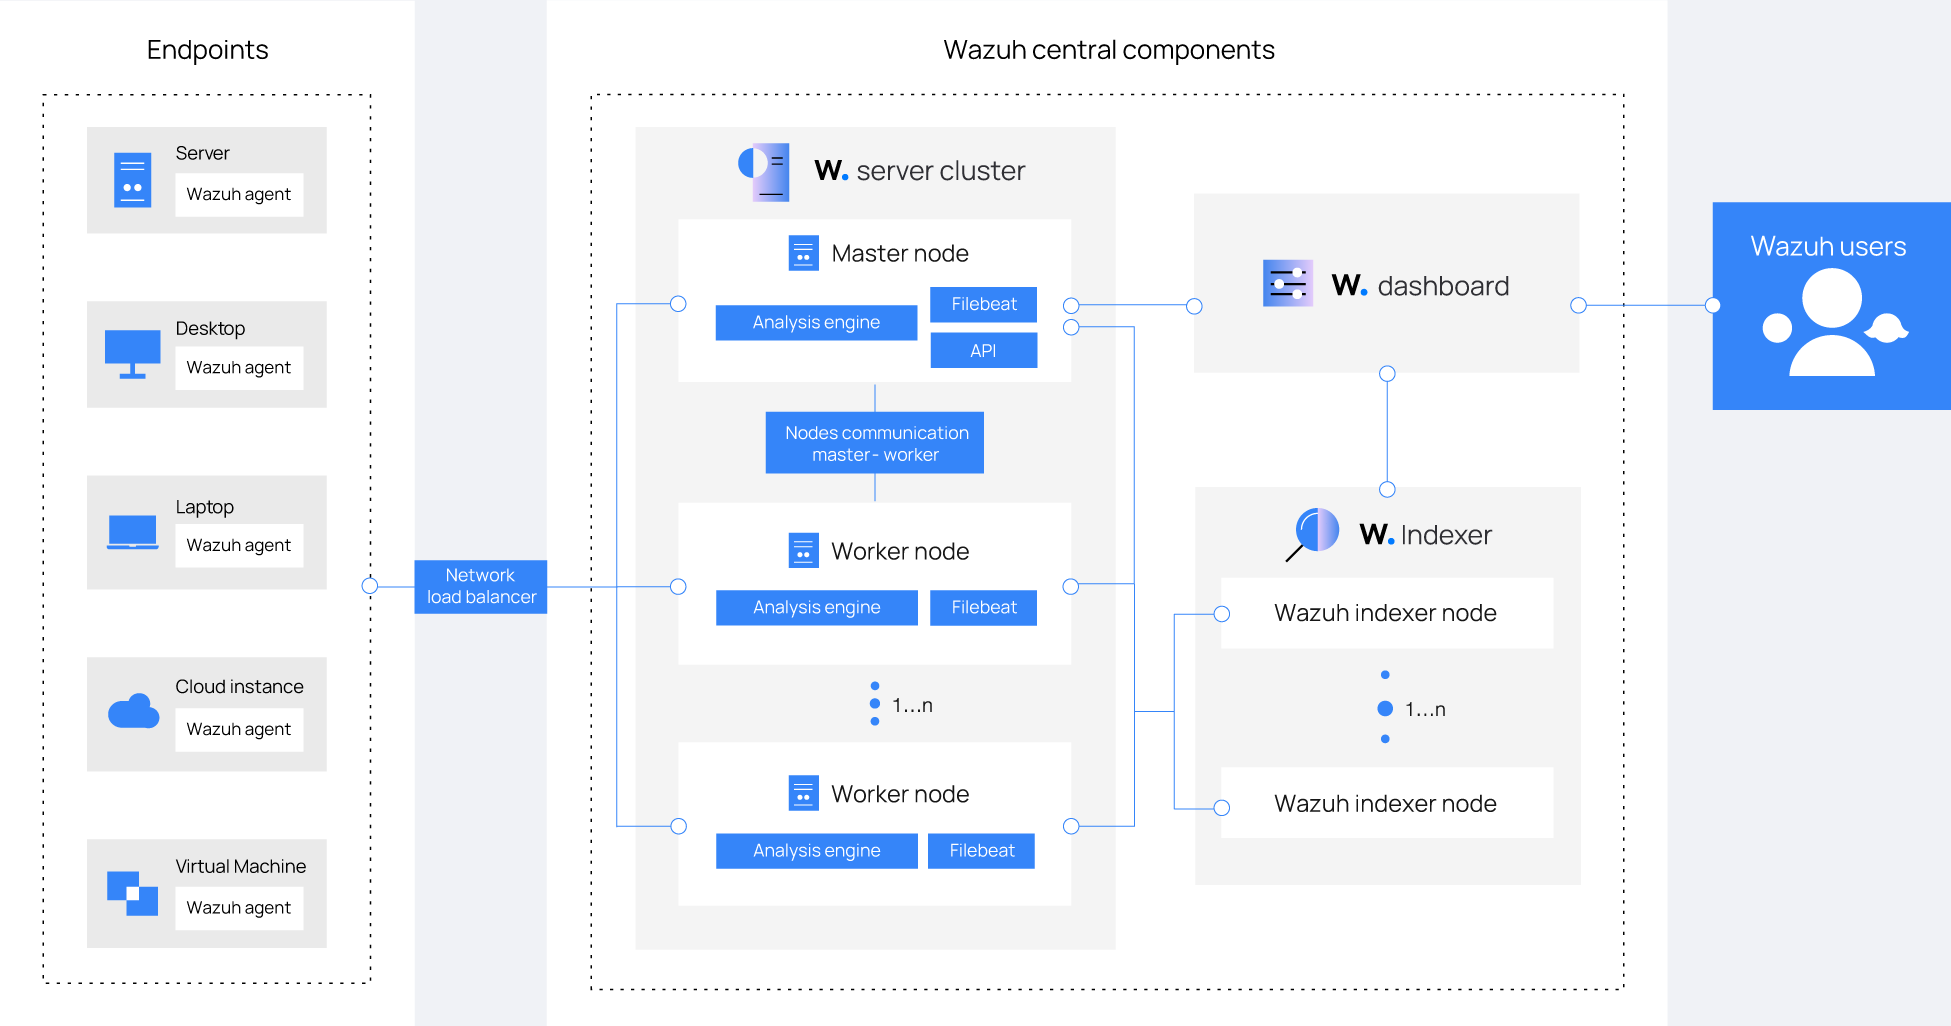
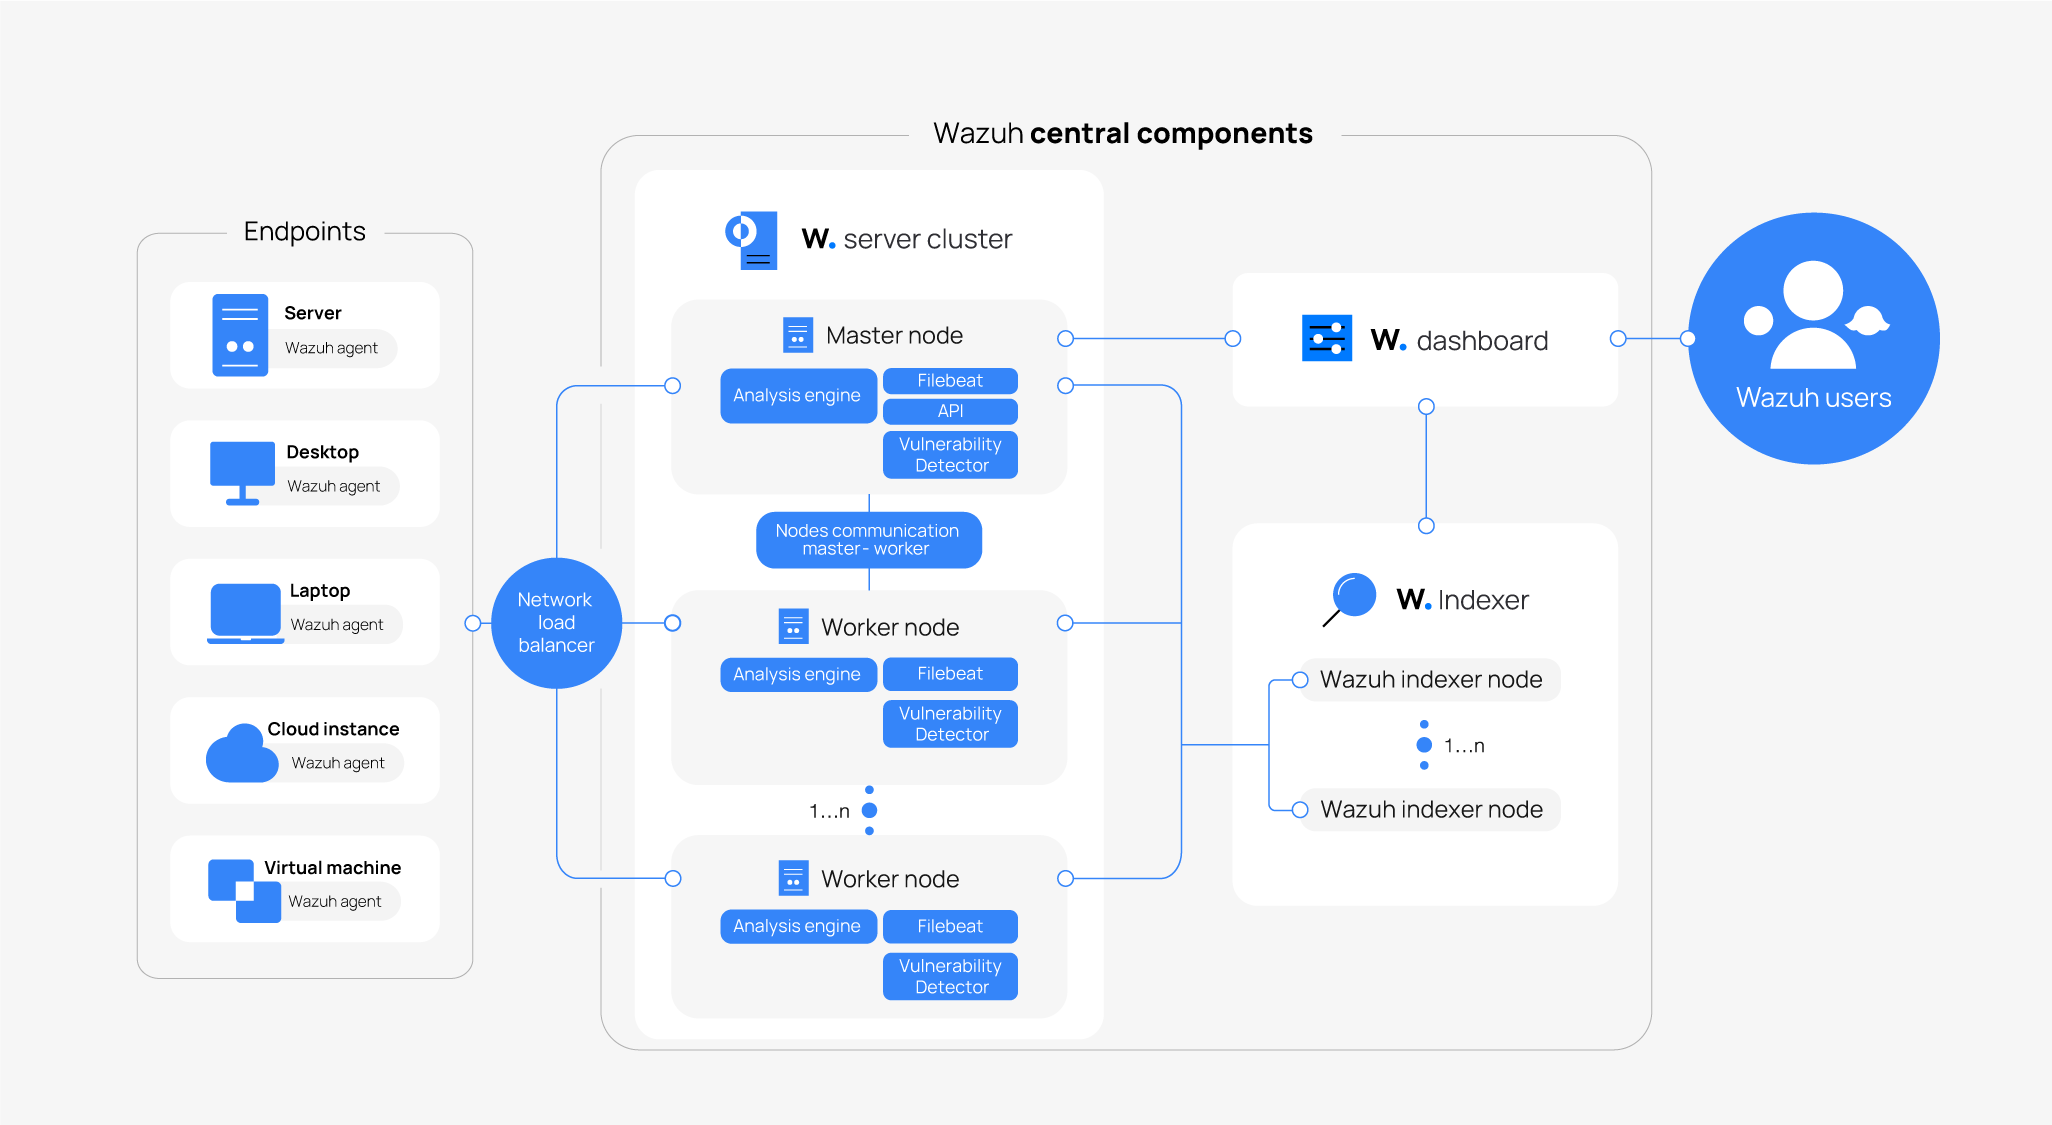
CL
- Change image and add information about VD.

diff --git a/source/getting-started/architecture.rst b/source/getting-started/architecture.rst
@@ -37,7 +37,9 @@ The Wazuh messages protocol uses AES encryption by default, with 128 bits per bl
 Wazuh server - Wazuh indexer communication
 ------------------------------------------
 
-The Wazuh server uses Filebeat to send alert and event data to the Wazuh indexer, using TLS encryption. Filebeat reads the Wazuh server output data and sends it to the Wazuh indexer (by default listening on port 9200/TCP). Once the data is indexed by the Wazuh indexer, the Wazuh dashboard is used to mine and visualize the information.
+The Wazuh server utilizes Filebeat to securely transmit alert and event data to the Wazuh indexer via TLS encryption. Filebeat monitors the output data from the Wazuh server and forwards it to the Wazuh indexer, which, by default, listens on port 9200/TCP. After the data is indexed, it can be analyzed and visualized using the Wazuh dashboard.
+
+Similarly, the Vulnerability Detector module generates alerts and updates the vulnerability inventory, providing ongoing insights into system vulnerabilities.
 
 The Wazuh dashboard queries the Wazuh RESTful API (by default listening on port 55000/TCP on the Wazuh server) to display configuration and status-related information of the :doc:`Wazuh server <components/wazuh-server>` and :doc:`agents <components/wazuh-agent>`. It can also modify agents or server configuration settings through API calls. This communication is encrypted with TLS and authenticated with a username and password.
 
